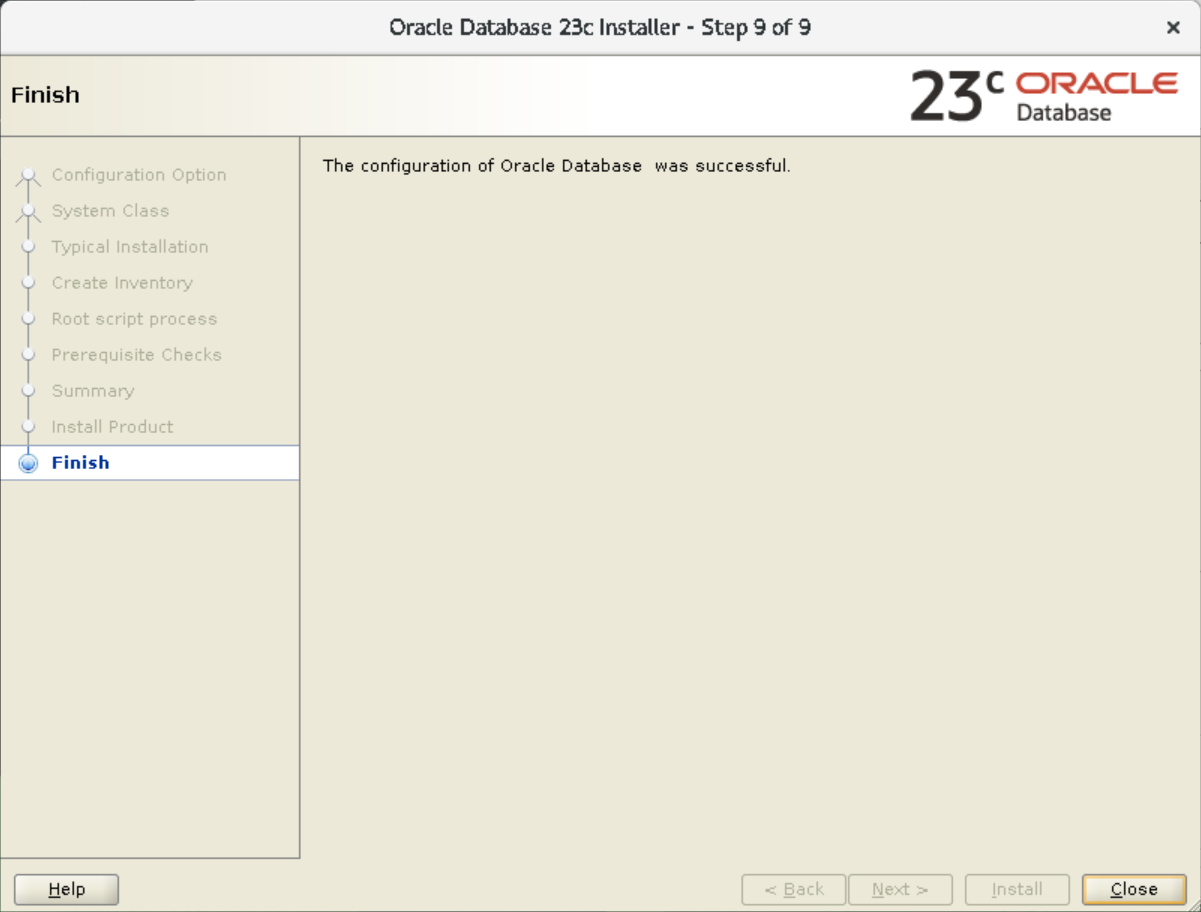
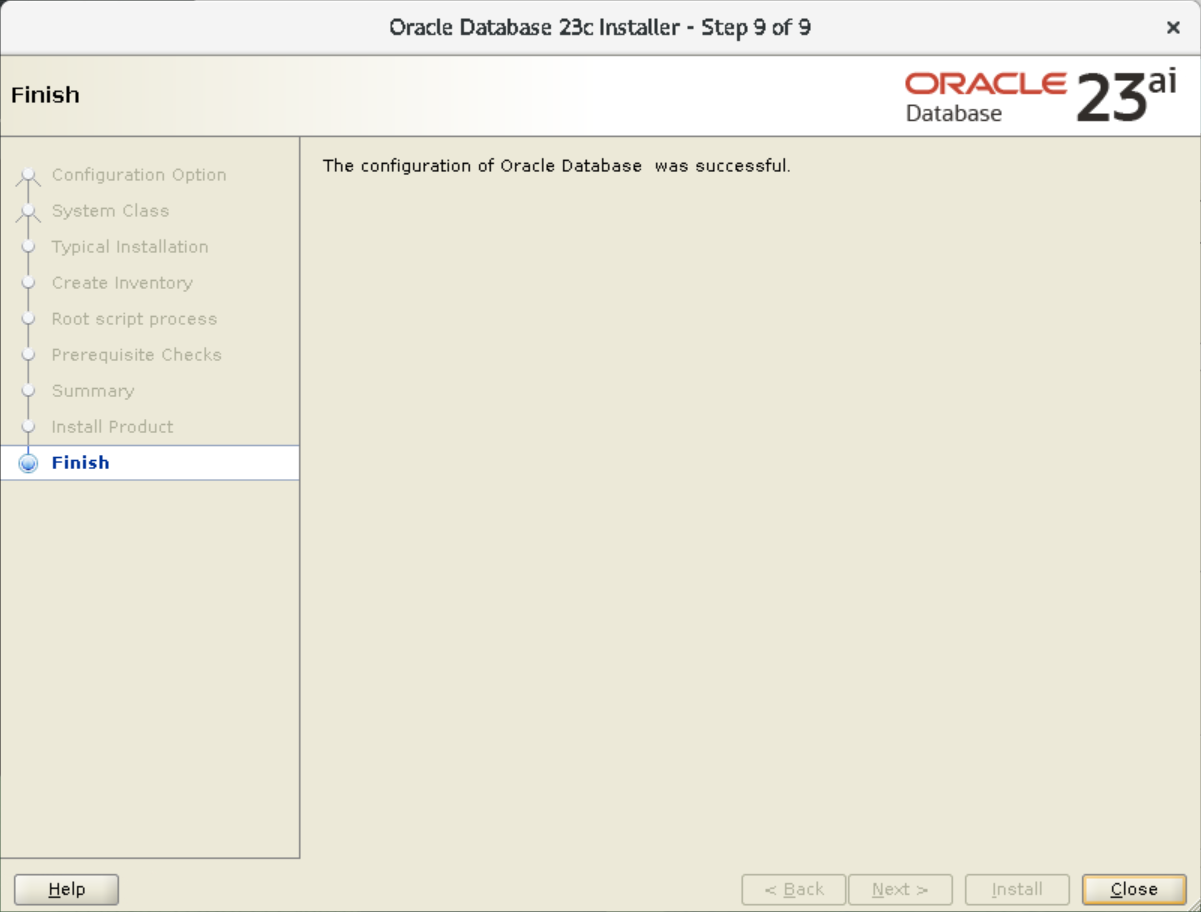
(#11767) updated youtube video for 23ai and few screens replaced (#702)
* (#11768) updated youtube video for 23ai and few screens replaced

Added Juan Loaiza's video on 23ai to the intro lab
Modified screenshots to replace 23c with 23ai; correct path for Oracle home
Updated contributors

~mg

* (#11767) updated youtube video for 23ai and few screens replaced

Added Juan Loaiza's video on 23ai to the intro lab
Modified screenshots to replace 23c with 23ai; correct path for Oracle home
Updated contributors

~mg

Changed region(s): [[0.7394, 0.0614, 0.9858, 0.1535]]

diff --git a/odb-23ai/dba-essentials-series-23ai/23ai-ws1-install-db/intro-install/intro-install.md b/odb-23ai/dba-essentials-series-23ai/23ai-ws1-install-db/intro-install/intro-install.md
@@ -8,6 +8,10 @@ This workshop provides detailed steps for installing a new *Oracle Database 23ai
 
 Estimated workshop time: 2 hours 45 minutes
 
+Watch this video to learn about the *highlights of Oracle Database 23ai*.
+
+[](youtube:TRDDsStoMxc)
+
 ### Objectives
 
 In this workshop, you will do the following.
@@ -117,5 +121,5 @@ Click the next lab to **Get Started**.
 ## Acknowledgments
 
  - **Author**: Manish Garodia, Database User Assistance Development
- - **Contributors**: Prakash Jashnani, Subhash Chandra, Subrahmanyam Kodavaluru
+ - **Contributors**: Prakash Jashnani, Subhash Chandra, Subrahmanyam Kodavaluru, Manisha Mati
  - **Last Updated By/Date**: Manish Garodia, October 2024

diff --git a/odb-23ai/dba-essentials-series-23ai/23ai-ws1-install-db/dbca-typical-advanced/dbca-typical-advanced.md b/odb-23ai/dba-essentials-series-23ai/23ai-ws1-install-db/dbca-typical-advanced/dbca-typical-advanced.md
@@ -297,5 +297,5 @@ In this workshop, you learned how to install the Oracle Database software on you
 ## Acknowledgments
 
  - **Author**: Manish Garodia, Database User Assistance Development
- - **Contributors**: Prakash Jashnani, Subhash Chandra, Subrahmanyam Kodavaluru
+ - **Contributors**: Prakash Jashnani, Subhash Chandra, Subrahmanyam Kodavaluru, Manisha Mati
  - **Last Updated By/Date**: Manish Garodia, October 2024

diff --git a/odb-23ai/dba-essentials-series-23ai/23ai-ws1-install-db/install-desktop-server/install-desktop-server.md b/odb-23ai/dba-essentials-series-23ai/23ai-ws1-install-db/install-desktop-server/install-desktop-server.md
@@ -406,5 +406,5 @@ You may now **proceed to the next lab**.
 ## Acknowledgments
 
  - **Author**: Manish Garodia, Database User Assistance Development
- - **Contributors**: Prakash Jashnani, Subhash Chandra, Subrahmanyam Kodavaluru
+ - **Contributors**: Prakash Jashnani, Subhash Chandra, Subrahmanyam Kodavaluru, Manisha Mati
  - **Last Updated By/Date**: Manish Garodia, October 2024

diff --git a/odb-23ai/dba-essentials-series-23ai/23ai-ws1-install-db/prepare-setup/prepare-setup.md b/odb-23ai/dba-essentials-series-23ai/23ai-ws1-install-db/prepare-setup/prepare-setup.md
@@ -58,5 +58,5 @@ You may now **proceed to the next lab**.
 ## Acknowledgments
 
  - **Author** - Rene Fontcha, LiveLabs Platform Lead, NA Technology
- - **Contributors** - Meghana Banka, Manish Garodia
+ - **Contributors** - Meghana Banka, Manish Garodia, Manisha Mati
  - **Last Updated By/Date** - Manish Garodia, October 2024
